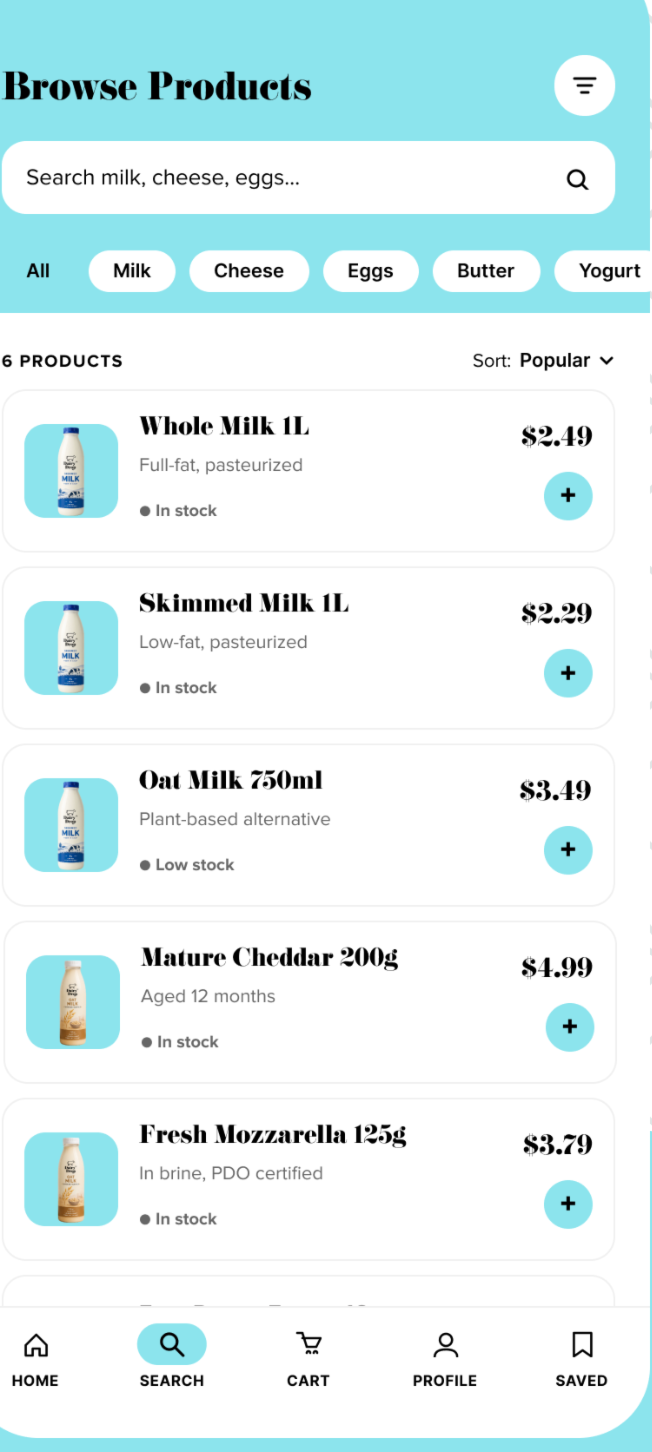
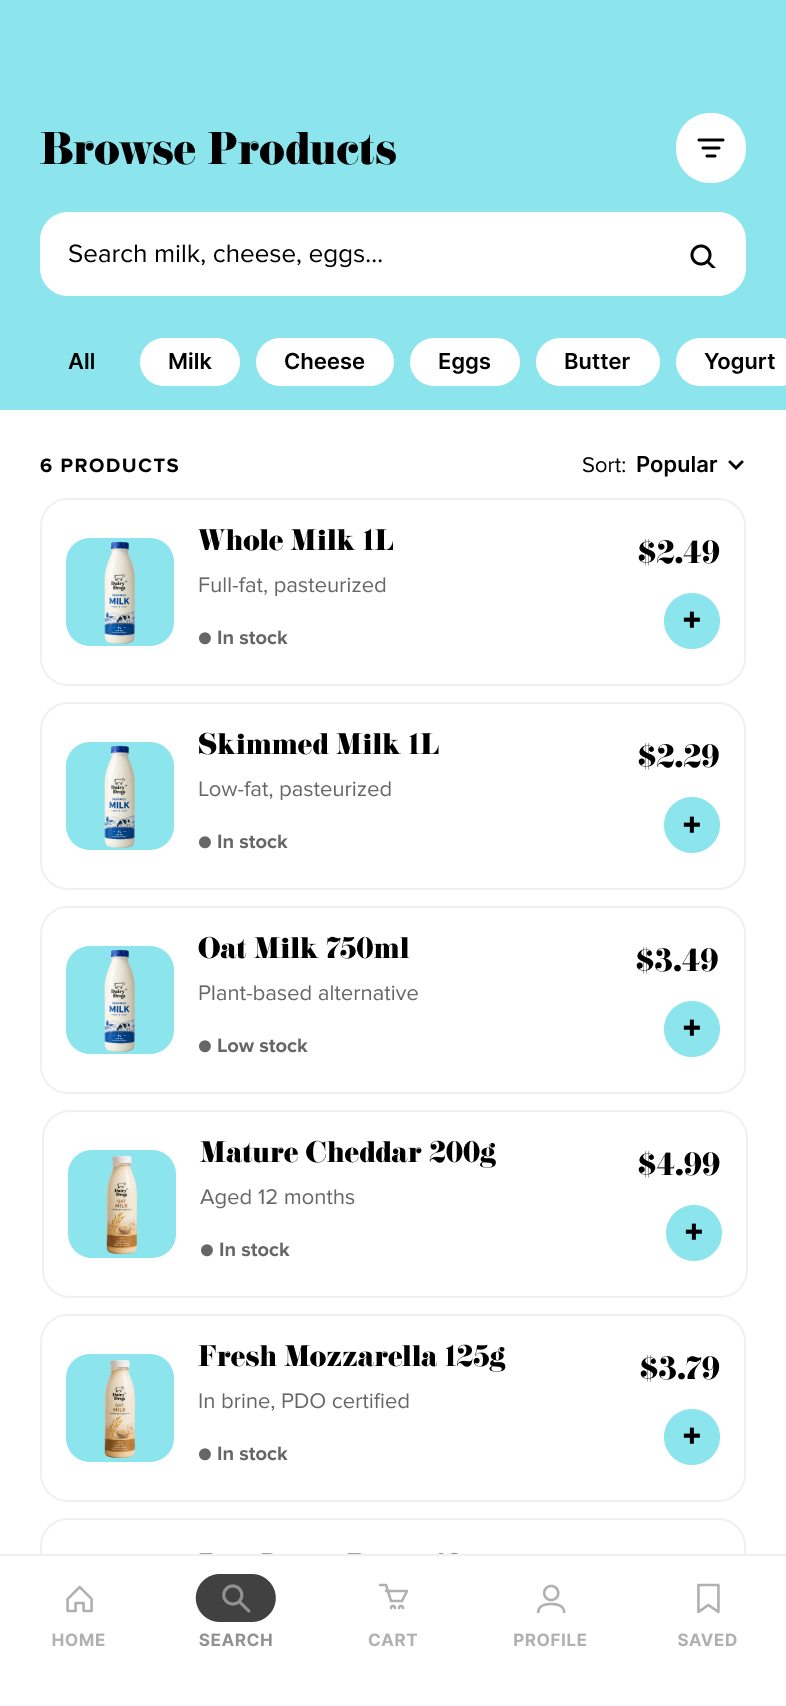
Dairy Drop: swap in new 16 screens; remove home badges & redundant boards
- Remove Real client / Live 200+ users corner badges from home cards (+ CSS)
- Replace all 8 mid-fi and 8 hi-fi Dairy Drop screens with fresh exports
- Remove duplicate combined screen boards (p019/p020/p026/p027) and orphaned files

diff --git a/portfolio/dairydrop.html b/portfolio/dairydrop.html
@@ -303,17 +303,6 @@
               <div class="pf pf--screen" data-reveal data-reveal-delay="3"><img src="/assets/images/dairydrop/mid-subscriptions.png" alt="Mid-fidelity subscriptions screen" loading="lazy" decoding="async"></div>
               <div class="pf pf--screen" data-reveal data-reveal-delay="4"><img src="/assets/images/dairydrop/mid-profile.png" alt="Mid-fidelity profile screen" loading="lazy" decoding="async"></div>
             </div>
-
-            <div class="pf-grid--slides" style="margin-top:24px">
-              <div class="pf pf--slide" data-reveal data-reveal-delay="1">
-                <span class="pf__tag pf__tag--before">Mid-Fi — Discovery</span>
-                <img src="/assets/images/dairydrop/p019.png" alt="Mid-fidelity screens: sign in, home, product, catalog" loading="lazy" decoding="async">
-              </div>
-              <div class="pf pf--slide" data-reveal data-reveal-delay="2">
-                <span class="pf__tag pf__tag--before">Mid-Fi — Transactional</span>
-                <img src="/assets/images/dairydrop/p020.png" alt="Mid-fidelity screens: checkout, tracking, subscriptions, profile" loading="lazy" decoding="async">
-              </div>
-            </div>
           </section>
 
           <!-- SCREENS: HI-FIDELITY -->
@@ -331,17 +320,6 @@
               <div class="pf pf--screen" data-reveal data-reveal-delay="2"><img src="/assets/images/dairydrop/screen-track.png" alt="Track order screen" loading="lazy" decoding="async"></div>
               <div class="pf pf--screen" data-reveal data-reveal-delay="3"><img src="/assets/images/dairydrop/screen-subscriptions.png" alt="Subscriptions screen" loading="lazy" decoding="async"></div>
               <div class="pf pf--screen" data-reveal data-reveal-delay="4"><img src="/assets/images/dairydrop/screen-profile.png" alt="Profile screen" loading="lazy" decoding="async"></div>
-            </div>
-
-            <div class="pf-grid--slides" style="margin-top:24px">
-              <div class="pf pf--slide" data-reveal data-reveal-delay="1">
-                <span class="pf__tag pf__tag--after">Hi-Fi — Discovery</span>
-                <img src="/assets/images/dairydrop/p026.png" alt="Hi-fi screens: sign in, home, product, catalog" loading="lazy" decoding="async">
-              </div>
-              <div class="pf pf--slide" data-reveal data-reveal-delay="2">
-                <span class="pf__tag pf__tag--after">Hi-Fi — Transactional</span>
-                <img src="/assets/images/dairydrop/p027.png" alt="Hi-fi screens: checkout, tracking, subscriptions, profile" loading="lazy" decoding="async">
-              </div>
             </div>
           </section>
 

diff --git a/assets/css/index.css b/assets/css/index.css
@@ -218,36 +218,6 @@ a { text-decoration: none; color: inherit; }
   text-shadow: 0 1px 18px rgba(0,0,0,0.5);
 }
 
-/* Trust badge — marks real/live projects (top-left corner) */
-.bcard__badge {
-  position: absolute; top: 14px; left: 14px; z-index: 4;
-  display: inline-flex; align-items: center; gap: 6px;
-  padding: 5px 10px;
-  font-family: var(--mono);
-  font-size: 8.5px; letter-spacing: 0.16em; text-transform: uppercase;
-  color: #fff; font-weight: 700;
-  background: rgba(10,10,12,0.62);
-  border: 1px solid rgba(255,255,255,0.22);
-  border-radius: 999px;
-  backdrop-filter: blur(6px); -webkit-backdrop-filter: blur(6px);
-  box-shadow: 0 2px 12px rgba(0,0,0,0.35);
-}
-.bcard__badge .badge-dot {
-  width: 6px; height: 6px; border-radius: 50%;
-  background: #35d07f; box-shadow: 0 0 0 0 rgba(53,208,127,0.6);
-  animation: badgePulse 1.8s ease-out infinite;
-}
-.bcard__badge--client { border-color: rgba(255,90,90,0.5); }
-.bcard__badge--client .badge-dot { background: #ff5a5a; box-shadow: 0 0 0 0 rgba(255,90,90,0.6); }
-@keyframes badgePulse {
-  0%   { box-shadow: 0 0 0 0 rgba(53,208,127,0.55); }
-  70%  { box-shadow: 0 0 0 7px rgba(53,208,127,0); }
-  100% { box-shadow: 0 0 0 0 rgba(53,208,127,0); }
-}
-@media (prefers-reduced-motion: reduce) {
-  .bcard__badge .badge-dot { animation: none; }
-}
-
 .bcard__reveal {
   display: grid;
   grid-template-rows: 0fr;

diff --git a/index.html b/index.html
@@ -520,7 +520,6 @@
     <a href="portfolio/clm.html" class="bcard bc-clm is-media sr d6">
       <div class="bcard__bg pg-clm"></div>
       <div class="bcard__scrim"></div>
-      <span class="bcard__badge bcard__badge--client"><span class="badge-dot"></span>Real client</span>
       <div class="bcard__content">
         <span class="bcard__cat">UI Web Design · Real Client Project</span>
         <h3 class="bcard__title">CLM Mafia</h3>
@@ -549,7 +548,6 @@
     <a href="https://www.omerta-games.com/" target="_blank" rel="noopener" class="bcard bc-omerta is-media sr d5">
       <div class="bcard__bg pg-omerta"></div>
       <div class="bcard__scrim"></div>
-      <span class="bcard__badge"><span class="badge-dot"></span>Live · 200+ users</span>
       <div class="bcard__content">
         <span class="bcard__cat">Web App · Live Product</span>
         <h3 class="bcard__title">Omerta Games</h3>
